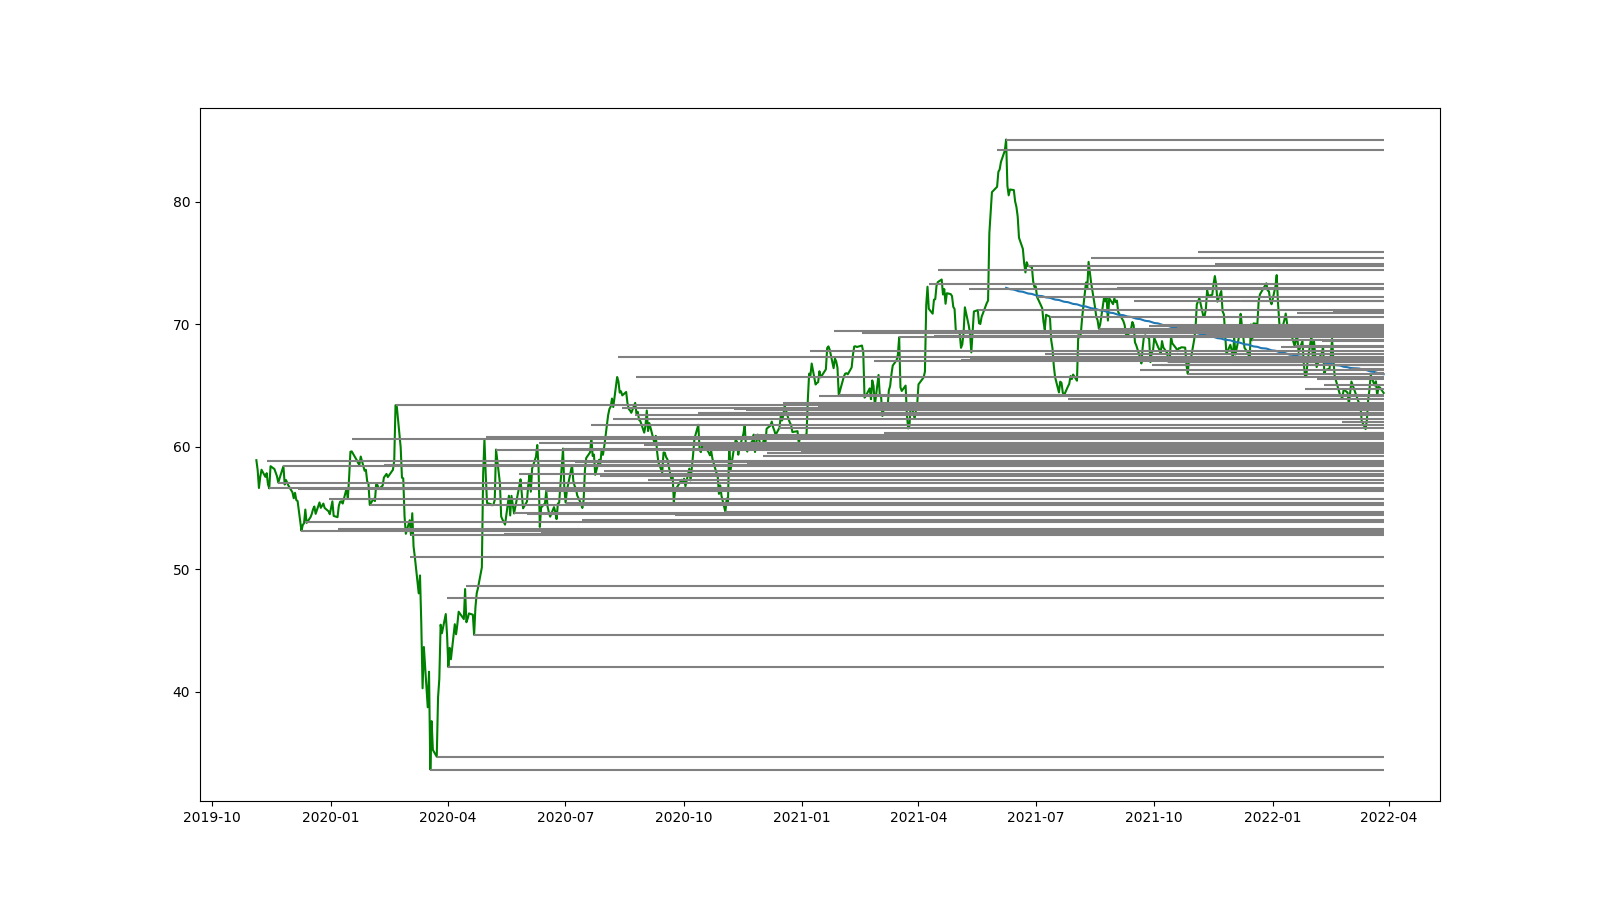
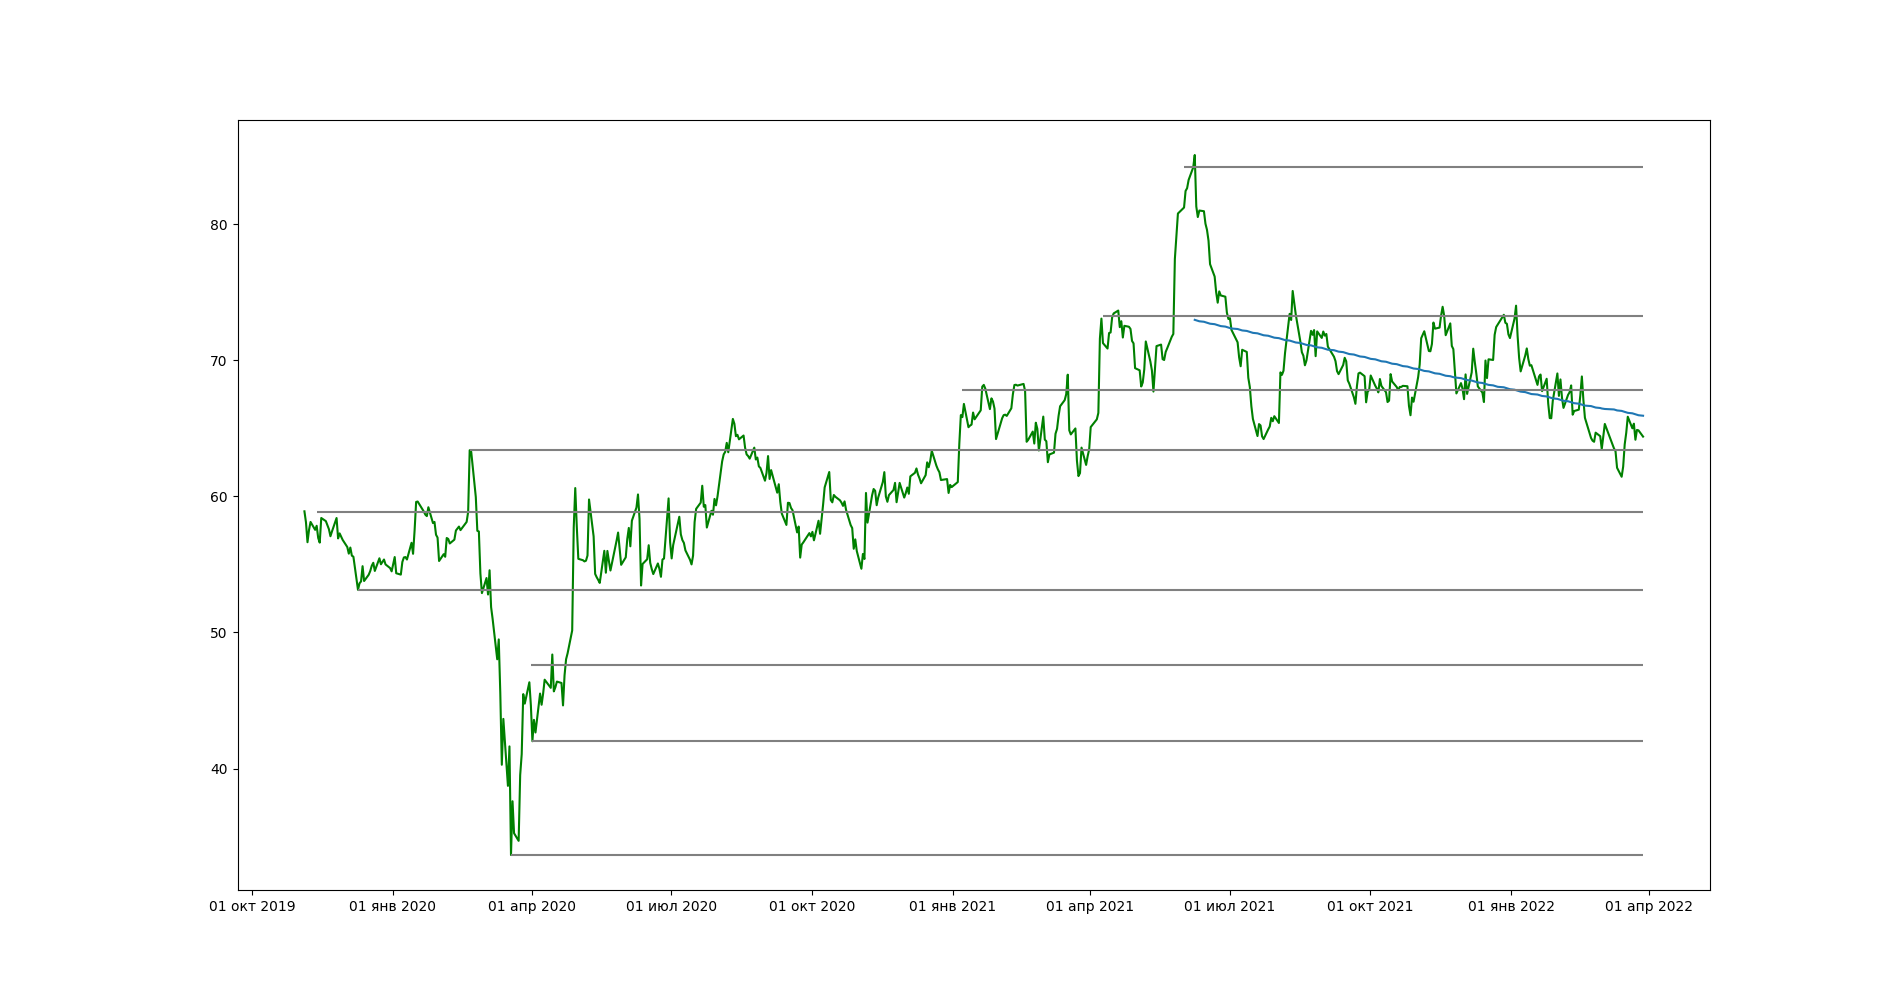
work

diff --git a/main.py b/main.py
@@ -19,6 +19,8 @@ from torch.autograd import Variable
 from utils.misc import update_daily_data, support_resistance, plot_financial
 from utils.tinkoff_data_downloaders import get_all_instruments
 from utils.db_api import Database
+import matplotlib.dates as mpl_dates
+
 
 import matplotlib.pyplot as plt
 import plotly.express as px
@@ -98,14 +100,16 @@ if __name__ == '__main__':
 
         # df["date"] = df["datetime"].dt.date
         df.set_index('datetime', inplace=True)
-
+        df["YM"] = df.index.strftime("%Y-%m")
+        df["month_open"] = df.groupby("YM")["open"].head(1)
+        df["month_open"] = df["month_open"].fillna(method="ffill")
+        # prices_monthly = df["close"].resample("M").ohlc()
+        df["monthly_std"] = df["close"].resample("M").mean().rolling(14).std().resample("d").mean()
         df = df[crop:]
 
         # https://medium.com/swlh/how-to-analyze-volume-profiles-with-python-3166bb10ff24
 
-        df["levels"] = support_resistance(df)
-
-        fig, ax1 = plt.subplots(figsize=(16, 9))
+        fig, ax1 = plt.subplots(figsize=(20, 10))
         ax1.plot(df["close"], color="green")
         ax1.plot(df["channel_mid"])
 
@@ -114,8 +118,8 @@ if __name__ == '__main__':
         for date, level in levels.items():
             plt.hlines(level, xmin=date, xmax=max(df.index), color="gray")
 
-        # date_format = mpl_dates.DateFormatter('%d %b %Y')
-        # ax.xaxis.set_major_formatter(date_format)
+        date_format = mpl_dates.DateFormatter('%d %b %Y')
+        ax1.xaxis.set_major_formatter(date_format)
         fig.show()
         fig.savefig("test.png")
 

diff --git a/utils/misc.py b/utils/misc.py
@@ -7,7 +7,7 @@ from utils.db_api import Database
 from utils.db_models import OHLCV
 from utils.tinkoff_data_downloaders import get_ohlcv
 from mplfinance.original_flavor import candlestick_ohlc
-import matplotlib.dates as mpl_dates
+
 import matplotlib.pyplot as plt
 import matplotlib.ticker as mticker
 import mplfinance as mpf
@@ -46,15 +46,20 @@ def support_resistance(df):
     levels = levels.drop_duplicates().dropna().to_dict()
     result = dict()
     std = df["close"].std()
-    for date, value in levels.items():
-        if result.items():
-            for known_date, known_value in result.items():
-                if abs(value - known_value) > std:
-                    result[date] = value
-                else:
-                    result[known_date] = (known_value + value) / 2
-        else:
-            result[date] = value
+
+    def check_list(check_dict: dict, check_value: float, std: float) -> bool:
+        count = 0
+        values = check_dict.values()
+        if values:
+            for value in values:
+                if abs(check_value - value) < std/2:
+                    count += 1
+        return True if count > 0 else False
+
+    for key, value in levels.items():
+        if not check_list(result, value, std):
+            result[key] = value
+
     return result
 
 
